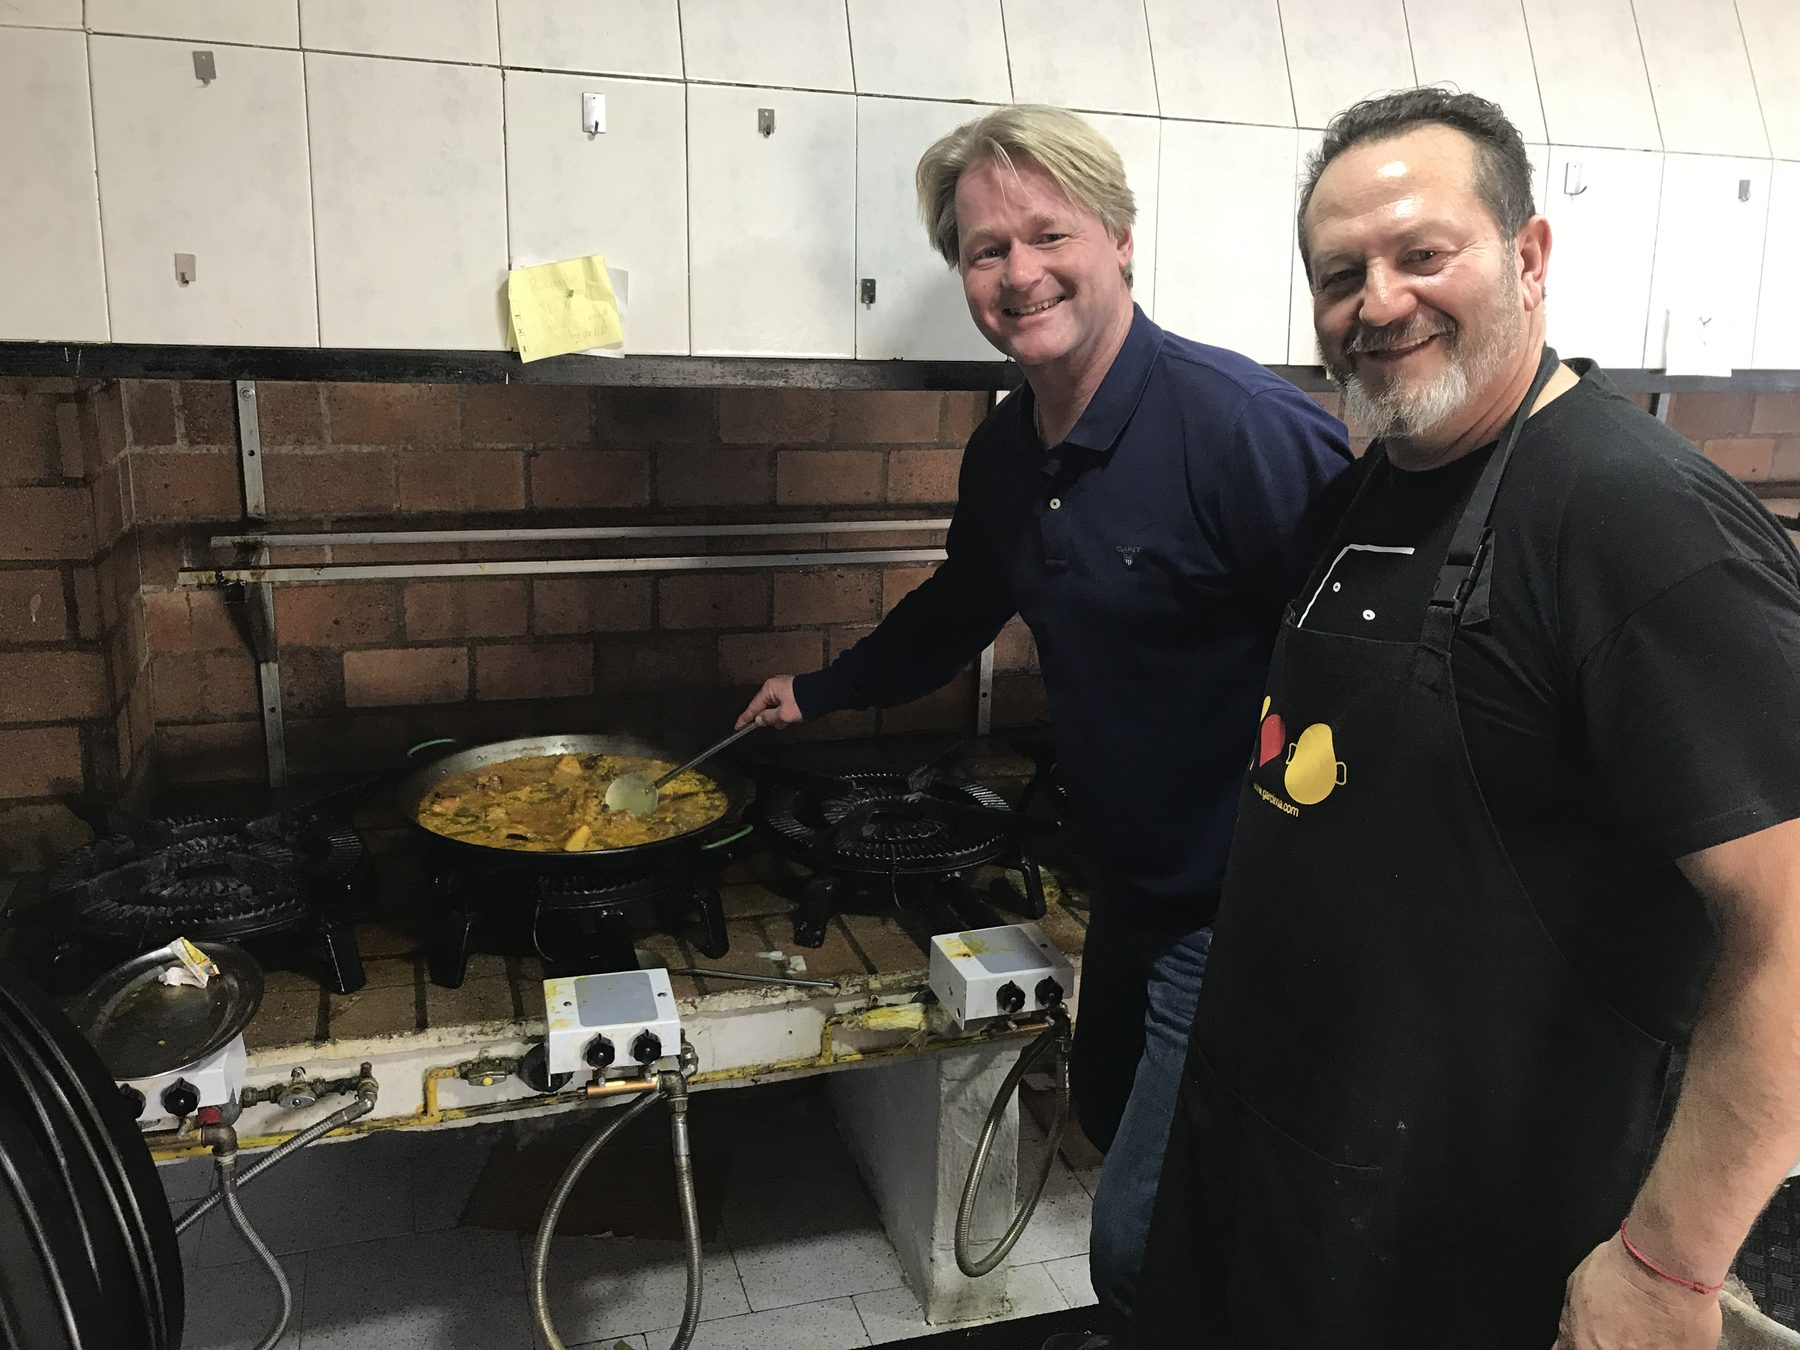
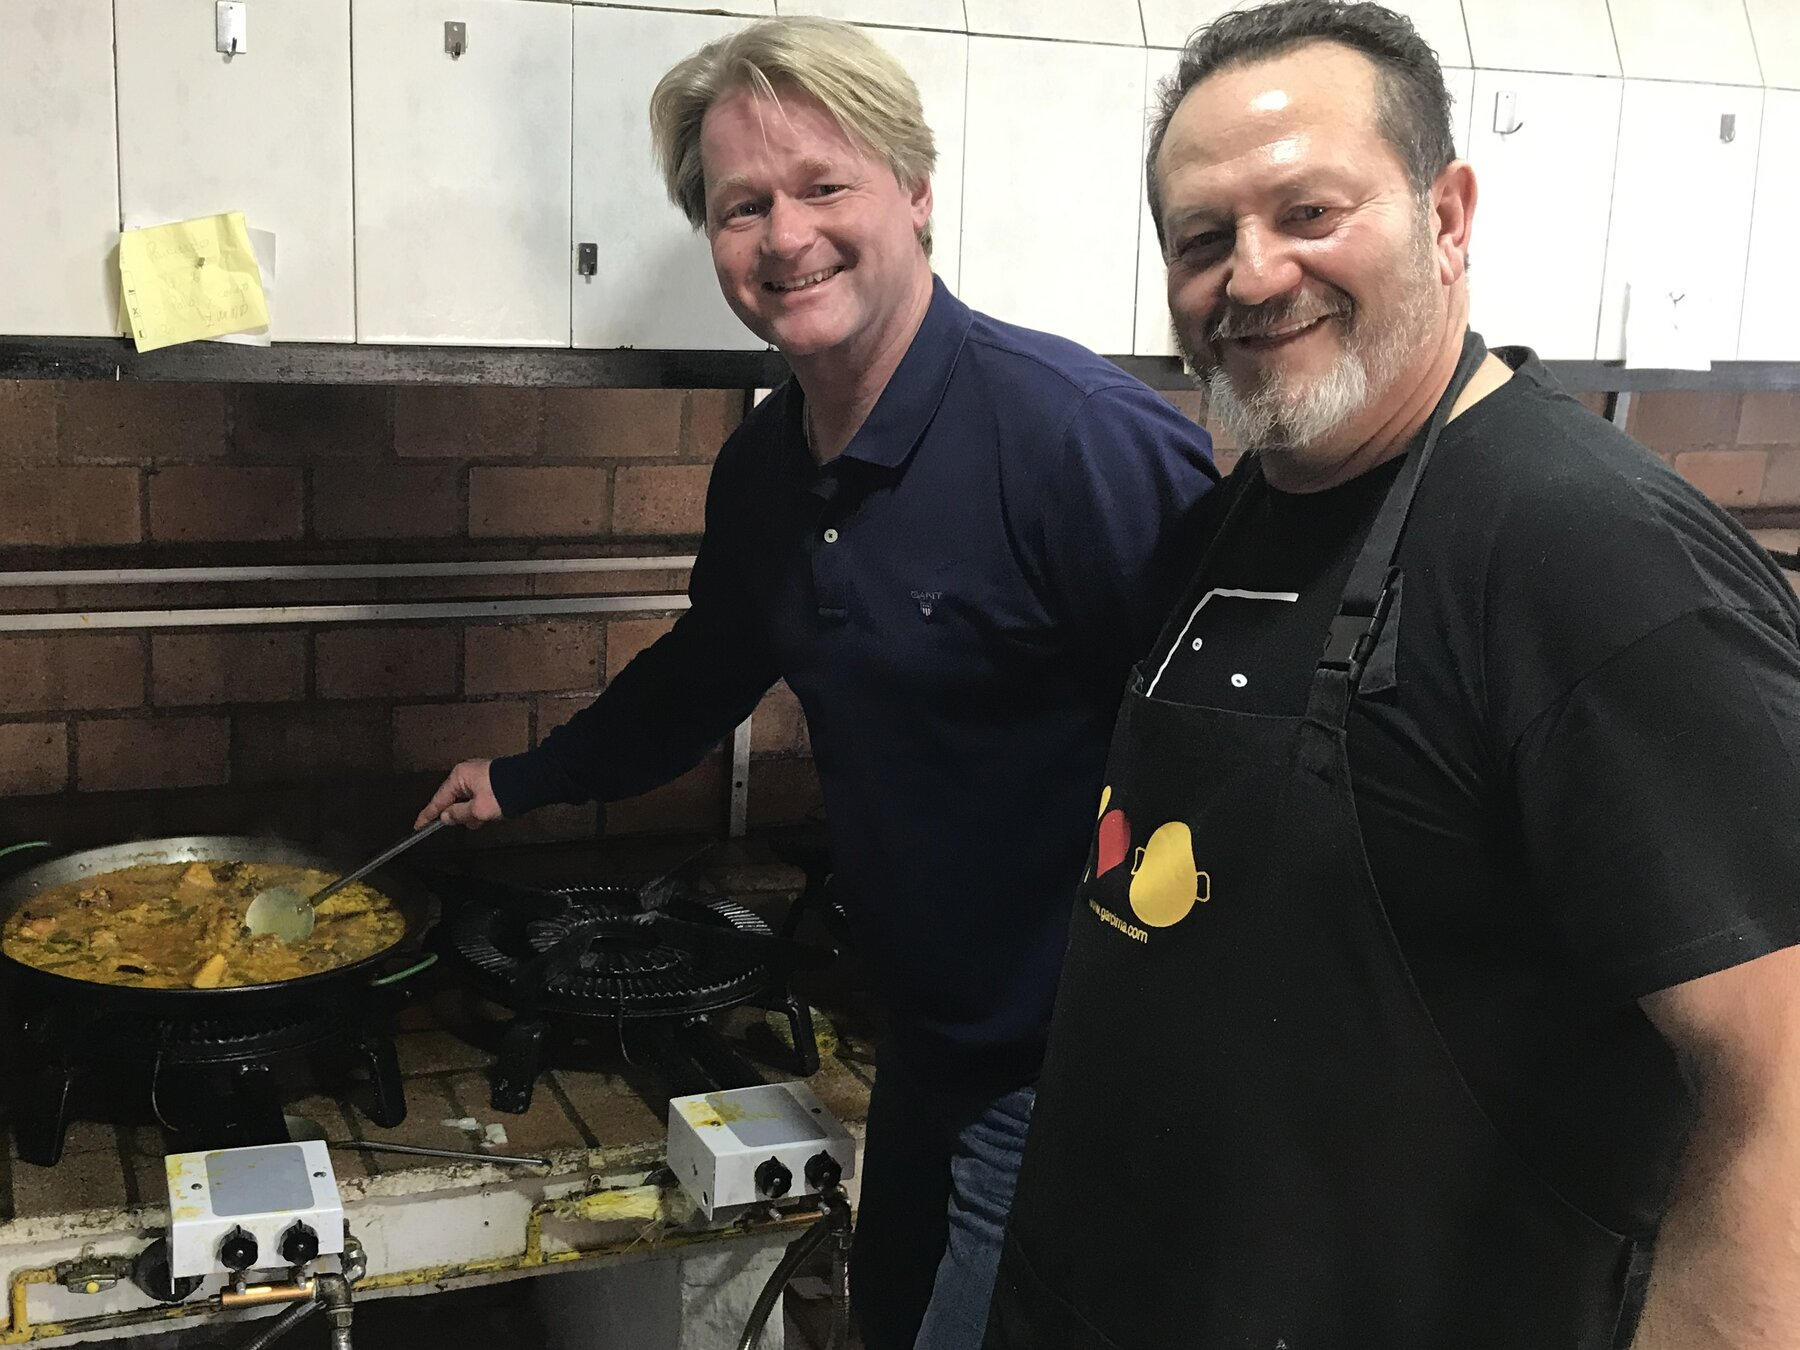
update

diff --git a/es/sobre-hugo/index.html b/es/sobre-hugo/index.html
@@ -21,7 +21,7 @@
 <meta name="apple-mobile-web-app-title" content="hugopaella">
 <meta name="apple-mobile-web-app-status-bar-style" content="default">
 
-<link rel="stylesheet" href="/css/style.css?v23">
+<link rel="stylesheet" href="/css/style.css?v24">
 </head>
 <body>
 
@@ -82,7 +82,7 @@
       </div>
 
       <div class="timeline-item">
-        <div class="timeline-media">
+        <div class="timeline-media uncropped">
           <img src="/assets/img/hugo-stage-tarragona.jpg" alt="Carné de estudiante durante las prácticas en Tarragona">
         </div>
         <div class="timeline-text">
@@ -109,8 +109,8 @@
       </div>
 
       <div class="timeline-item">
-        <div class="timeline-media portrait">
-          <img src="/assets/img/hugo-hedendaags-met-paella.jpg" alt="Hugo con una paella hecha recientemente">
+        <div class="timeline-media portrait sticker">
+          <img src="/assets/img/hugo-hedendaags-met-paella.png" alt="Hugo con una paella hecha recientemente">
         </div>
         <div class="timeline-text">
           <p>Toda esa experiencia la llevo conmigo cuando cocino para un grupo. Pero algo al menos igual de importante es lo que vivo desde mi juventud en España: la paella es un momento social. La gente se reúne alrededor de la paellera, habla de la comida, mira cocinar y, al final, se sienta junta a la mesa. Precisamente eso es lo que quiero traer con Hugo's Paella.</p>

diff --git a/over-hugo/index.html b/over-hugo/index.html
@@ -21,7 +21,7 @@
 <meta name="apple-mobile-web-app-title" content="hugopaella">
 <meta name="apple-mobile-web-app-status-bar-style" content="default">
 
-<link rel="stylesheet" href="/css/style.css?v23">
+<link rel="stylesheet" href="/css/style.css?v24">
 </head>
 <body>
 
@@ -82,7 +82,7 @@
       </div>
 
       <div class="timeline-item">
-        <div class="timeline-media">
+        <div class="timeline-media uncropped">
           <img src="/assets/img/hugo-stage-tarragona.jpg" alt="Studentenpas tijdens de stage in Tarragona">
         </div>
         <div class="timeline-text">
@@ -109,8 +109,8 @@
       </div>
 
       <div class="timeline-item">
-        <div class="timeline-media portrait">
-          <img src="/assets/img/hugo-hedendaags-met-paella.jpg" alt="Hugo met een recent gemaakte paella">
+        <div class="timeline-media portrait sticker">
+          <img src="/assets/img/hugo-hedendaags-met-paella.png" alt="Hugo met een recent gemaakte paella">
         </div>
         <div class="timeline-text">
           <p>Al die ervaring neem ik mee wanneer ik voor een gezelschap kook. Maar minstens zo belangrijk is wat ik al sinds mijn jeugd in Spanje ervaar: paella is een sociaal moment. Mensen verzamelen zich rond de pan, praten over het eten, kijken mee met de kok en gaan uiteindelijk samen aan tafel. Precies dat is wat ik met Hugo's Paella wil brengen.</p>

diff --git a/css/style.css b/css/style.css
@@ -822,6 +822,23 @@ a.dish-card:hover {
   object-fit: cover;
 }
 
+/* D3 (studentenpas): heel brede foto, niet bijsnijden — eigen (lagere) beeldverhouding i.p.v. de standaard 4:3 */
+.timeline-media.uncropped img {
+  aspect-ratio: 1800 / 783;
+  object-fit: cover;
+}
+
+/* D6 (afsluitfoto): losse 'sticker' zonder kaart/schaduw — de PNG heeft een transparante achtergrond
+   die de paginakleur laat doorschijnen, dus geen kader of bijsnijden */
+.timeline-media.sticker {
+  background: transparent;
+  box-shadow: none;
+}
+
+.timeline-media.sticker img {
+  object-fit: contain;
+}
+
 .timeline-text p {
   color: var(--text-soft);
   margin: 0 0 14px;

diff --git a/blog/index.html b/blog/index.html
@@ -21,7 +21,7 @@
 <meta name="apple-mobile-web-app-title" content="hugopaella">
 <meta name="apple-mobile-web-app-status-bar-style" content="default">
 
-<link rel="stylesheet" href="/css/style.css?v23">
+<link rel="stylesheet" href="/css/style.css?v24">
 </head>
 <body>
 

diff --git a/blog/paella-in-tarragona/index.html b/blog/paella-in-tarragona/index.html
@@ -21,7 +21,7 @@
 <meta name="apple-mobile-web-app-title" content="hugopaella">
 <meta name="apple-mobile-web-app-status-bar-style" content="default">
 
-<link rel="stylesheet" href="/css/style.css?v23">
+<link rel="stylesheet" href="/css/style.css?v24">
 </head>
 <body>
 

diff --git a/blog/paella-valenciana-stap-voor-stap/index.html b/blog/paella-valenciana-stap-voor-stap/index.html
@@ -21,7 +21,7 @@
 <meta name="apple-mobile-web-app-title" content="hugopaella">
 <meta name="apple-mobile-web-app-status-bar-style" content="default">
 
-<link rel="stylesheet" href="/css/style.css?v23">
+<link rel="stylesheet" href="/css/style.css?v24">
 </head>
 <body>
 

diff --git a/calculator/index.html b/calculator/index.html
@@ -21,7 +21,7 @@
 <meta name="apple-mobile-web-app-title" content="hugopaella">
 <meta name="apple-mobile-web-app-status-bar-style" content="default">
 
-<link rel="stylesheet" href="/css/style.css?v23">
+<link rel="stylesheet" href="/css/style.css?v24">
 </head>
 <body>
 

diff --git a/contact/index.html b/contact/index.html
@@ -21,7 +21,7 @@
 <meta name="apple-mobile-web-app-title" content="hugopaella">
 <meta name="apple-mobile-web-app-status-bar-style" content="default">
 
-<link rel="stylesheet" href="/css/style.css?v23">
+<link rel="stylesheet" href="/css/style.css?v24">
 </head>
 <body>
 

diff --git a/de-paella/index.html b/de-paella/index.html
@@ -21,7 +21,7 @@
 <meta name="apple-mobile-web-app-title" content="hugopaella">
 <meta name="apple-mobile-web-app-status-bar-style" content="default">
 
-<link rel="stylesheet" href="/css/style.css?v23">
+<link rel="stylesheet" href="/css/style.css?v24">
 </head>
 <body>
 

diff --git a/es/blog/index.html b/es/blog/index.html
@@ -21,7 +21,7 @@
 <meta name="apple-mobile-web-app-title" content="hugopaella">
 <meta name="apple-mobile-web-app-status-bar-style" content="default">
 
-<link rel="stylesheet" href="/css/style.css?v23">
+<link rel="stylesheet" href="/css/style.css?v24">
 </head>
 <body>
 

diff --git a/es/blog/paella-en-tarragona/index.html b/es/blog/paella-en-tarragona/index.html
@@ -21,7 +21,7 @@
 <meta name="apple-mobile-web-app-title" content="hugopaella">
 <meta name="apple-mobile-web-app-status-bar-style" content="default">
 
-<link rel="stylesheet" href="/css/style.css?v23">
+<link rel="stylesheet" href="/css/style.css?v24">
 </head>
 <body>
 

diff --git a/es/blog/paella-valenciana-paso-a-paso/index.html b/es/blog/paella-valenciana-paso-a-paso/index.html
@@ -21,7 +21,7 @@
 <meta name="apple-mobile-web-app-title" content="hugopaella">
 <meta name="apple-mobile-web-app-status-bar-style" content="default">
 
-<link rel="stylesheet" href="/css/style.css?v23">
+<link rel="stylesheet" href="/css/style.css?v24">
 </head>
 <body>
 
